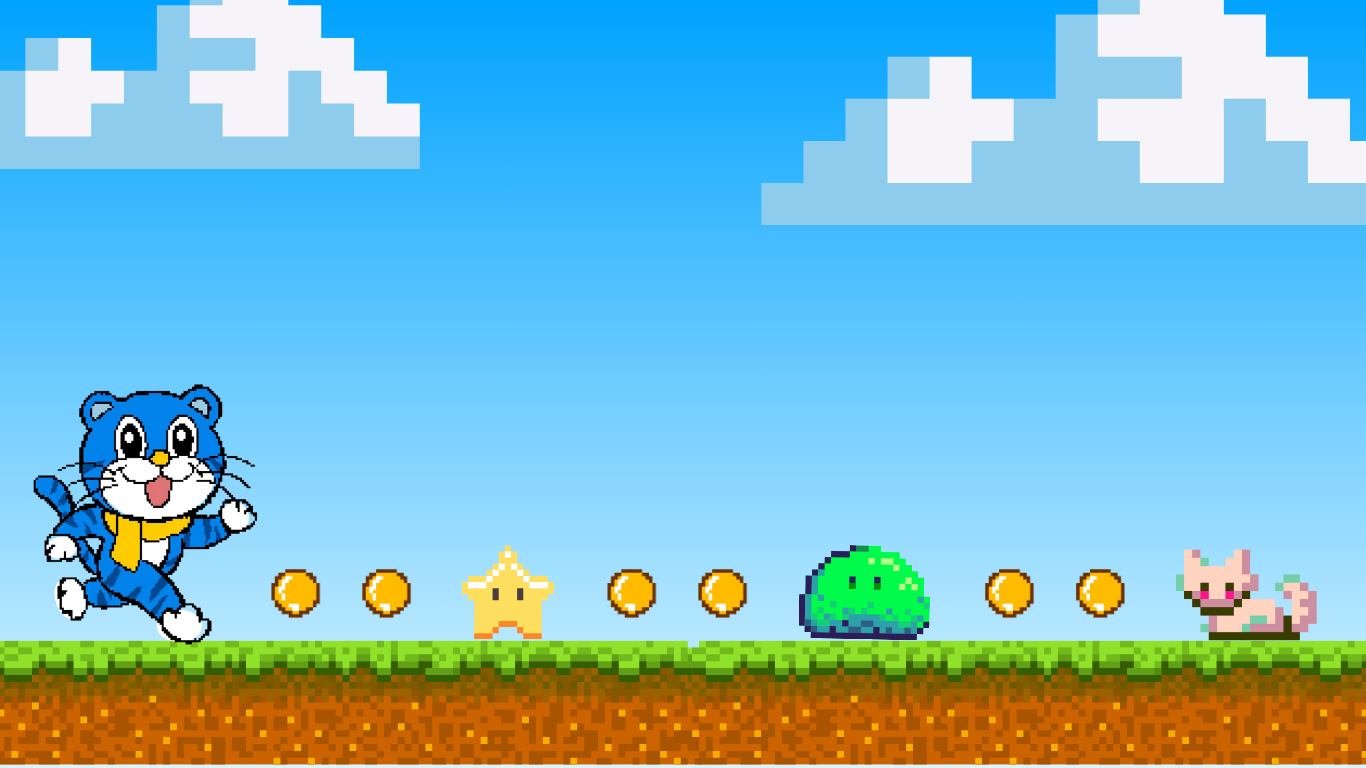
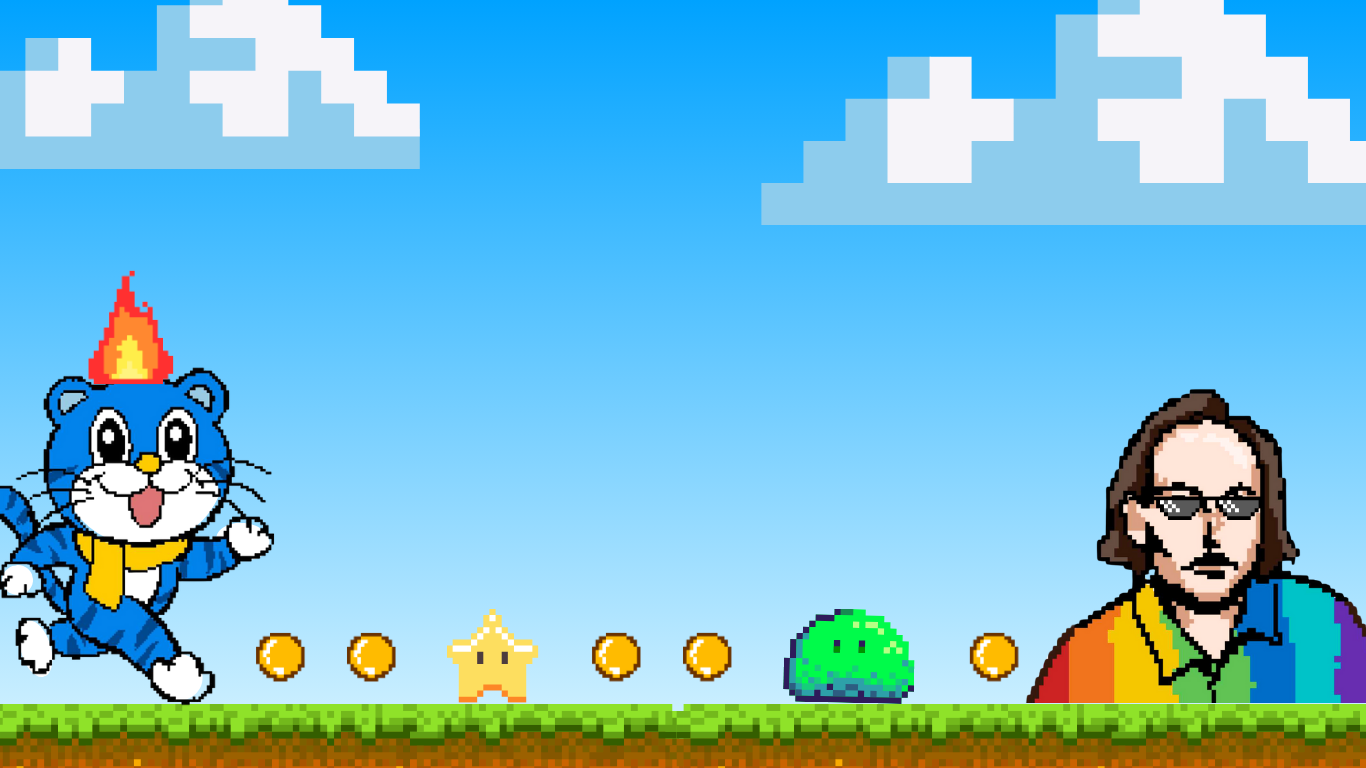
adjust background image for better visual

Changed region(s): [[0.0, 0.375, 1.0, 1.0]]

diff --git a/test.html b/test.html
@@ -136,7 +136,7 @@
             left: 0;
             width: 100%;
             height: 100vh;
-            background-image: url('./images/failure_page/failure_page.png');
+            background-image: url('./images/victory_page/failure_page.png');
             background-size: cover;
             background-position: center;
             z-index: 1000;
@@ -167,7 +167,7 @@
             cursor: pointer;
             width: 380px;
             height: 90px;
-            top: 82%;
+            top: 80%;
             left: 15%;
         }
         #buff1, #buff2 {
